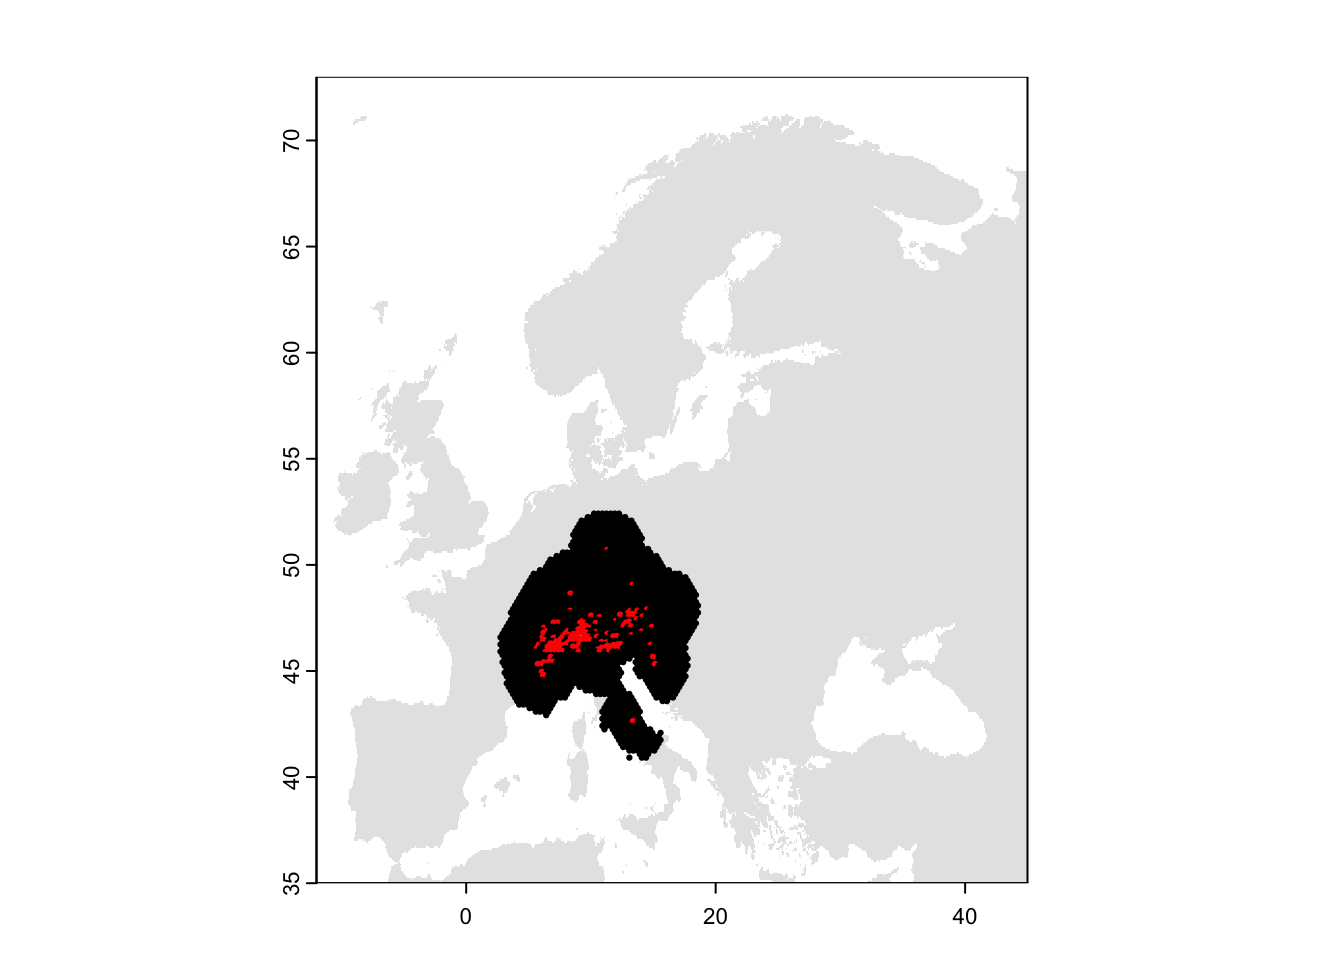
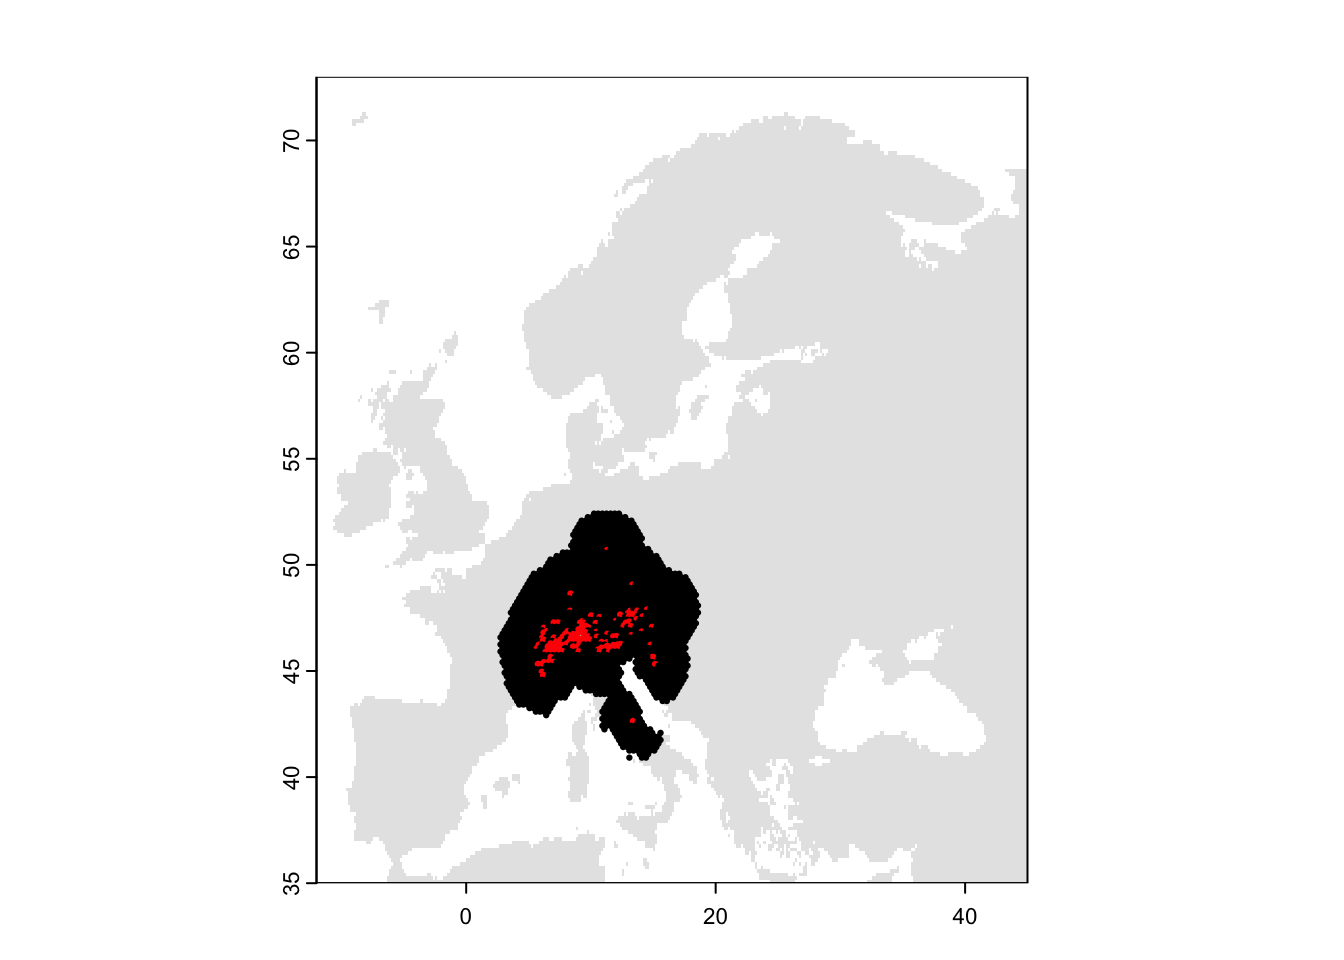
minor correction

diff --git a/b5_pseudoabsence.html b/b5_pseudoabsence.html
@@ -872,7 +872,7 @@ sp_env$sp &lt;- &#39;Sorex_alpinus&#39;
 xy &lt;- thin(sp_env, lat.col=&#39;decimalLatitude&#39;,long.col=&#39;decimalLongitude&#39;,spec.col=&#39;sp&#39;, thin.par=30,reps=1, write.files=F,locs.thinned.list.return=T)</code></pre>
 <pre><code>## ********************************************** 
 ##  Beginning Spatial Thinning.
-##  Script Started at: Fri Nov  3 20:36:25 2023
+##  Script Started at: Mon Nov  6 09:07:37 2023
 ## lat.long.thin.count
 ## 743 
 ##   1 
@@ -919,7 +919,7 @@ names(r_chess) &lt;- &#39;chess&#39;
 sp_thinned2 &lt;- merge(as.data.frame(r_chess,cell=T),sp_env,by=&#39;cell&#39;)
 
 # Plot the map and data
-plot(region, col=&#39;grey90&#39;, legend=F)
+plot(bg, col=&#39;grey90&#39;, legend=F)
 points(sp_thinned2[,c(&#39;decimalLongitude&#39;,&#39;decimalLatitude&#39;)],pch=19,col=c(&#39;black&#39;,&#39;red&#39;)[as.factor(sp_thinned2$occ)], cex=0.3)</code></pre>
 <p><img src="b5_pseudoabsence_files/figure-html/unnamed-chunk-15-1.png" width="672" /></p>
 <p>We can also thin the data to an even coarser grid.</p>
@@ -947,7 +947,7 @@ number of presences and absences retained.</p>
 table(sp_thinned$occ)</code></pre>
 <pre><code>## 
 ##   0   1 
-## 703 104</code></pre>
+## 697 115</code></pre>
 <pre class="r"><code># checkerboard at original spatial resolution
 table(sp_thinned2$occ)</code></pre>
 <pre><code>## 
